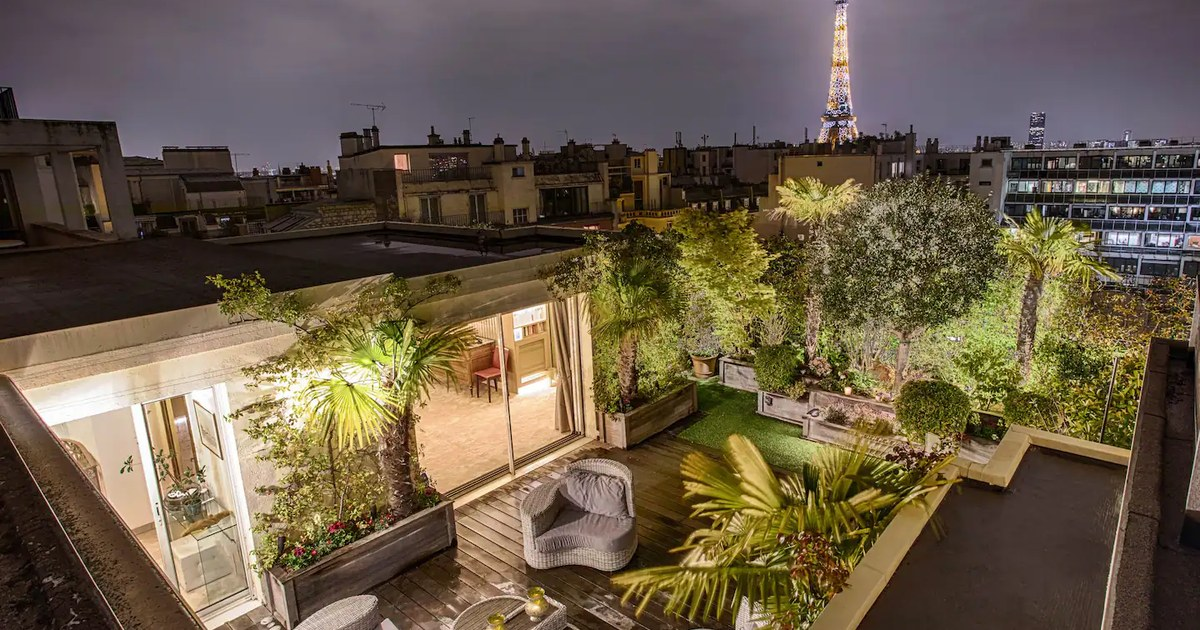
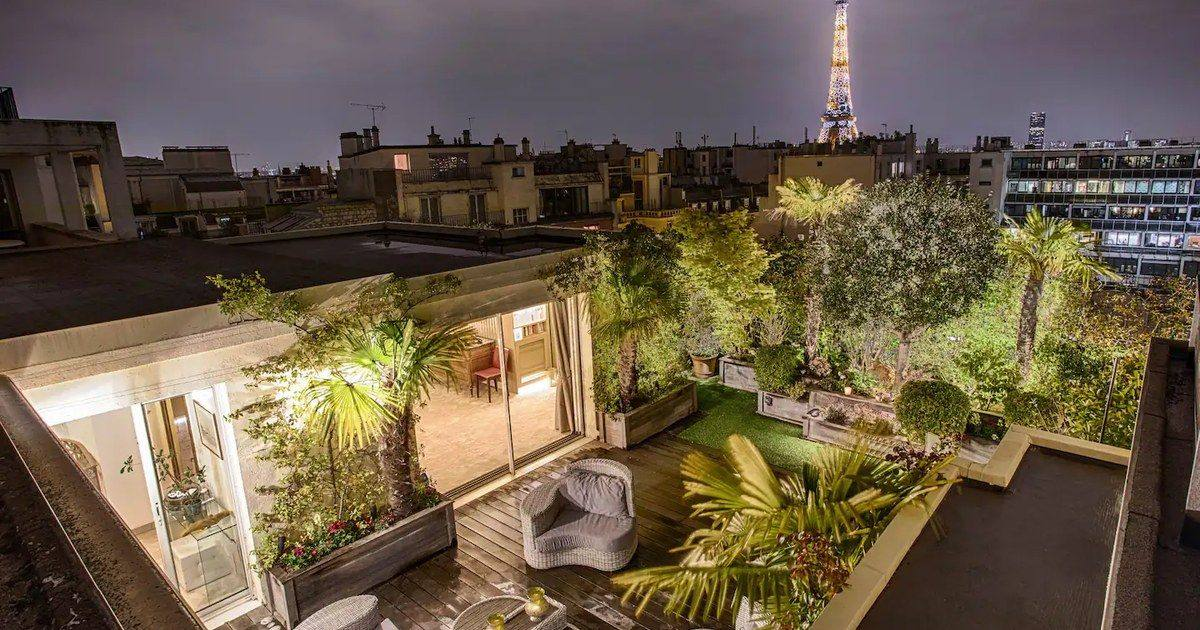
Optimize WhatsApp preview with top-level OpenGraph and Microdata tags

diff --git a/Frontend/dist/index.html b/Frontend/dist/index.html
@@ -1,22 +1,15 @@
 <!doctype html>
-<html lang="en">
+<html lang="en" prefix="og: http://ogp.me/ns#">
 
 <head>
   <meta charset="UTF-8" />
-  <link rel="icon" type="image/svg+xml" href="/favicon.svg" />
   <meta name="viewport" content="width=device-width, initial-scale=1.0" />
-  <!-- Google Search Console Verification -->
-  <meta name="google-site-verification" content="BPItM9TEO_7A6p4X_3Dvhr1ZK7EZpbXfZi5zHfBtnQY" />
-  <meta name="google-site-verification" content="google7777e5ba595168f6" />
-  <meta name="google-site-verification" content="yviekDjygvTvtspOJzpSF1S46UrGW1wj7f7PhbmpGPw" />
-  <meta name="google-site-verification" content="2ho6eK74CUxIFQkF_mPrEjaX3T6XlivUGy6gfuR-Doo" />
-
-  <!-- Bing Webmaster Tools Verification -->
-  <meta name="msvalidate.01" content="C7030712442E8CCEB8BC27BEBAC17BF4" />
+  <link rel="icon" type="image/svg+xml" href="/favicon.svg" />
 
   <!-- Primary SEO Meta Tags -->
   <title>Homexa - Vacation Rentals, Luxury Villas & Unique Stays</title>
   <link rel="canonical" href="https://homexa-bqs.pages.dev/" />
+  <link rel="image_src" href="https://homexa-bqs.pages.dev/assets/og-image.jpg" />
   <meta name="title" content="Homexa - Vacation Rentals, Luxury Villas & Unique Stays" />
   <meta name="description" content="Discover and book handpicked vacation rentals, beachfront villas, cozy mountain cabins, and modern apartments with Homexa. Instant booking and verified hosts." />
   <meta name="keywords" content="vacation rentals, holiday homes, luxury villas, homestay, rent apartments, travel booking, Homexa" />
@@ -24,7 +17,7 @@
   <meta name="googlebot" content="index, follow" />
   <meta name="theme-color" content="#FF385C" />
 
-  <!-- Open Graph / Facebook / WhatsApp -->
+  <!-- Open Graph / Facebook / WhatsApp (Must be near top of head) -->
   <meta property="og:type" content="website" />
   <meta property="og:site_name" content="Homexa" />
   <meta property="og:url" content="https://homexa-bqs.pages.dev/" />
@@ -38,11 +31,27 @@
   <meta property="og:image:alt" content="Homexa - Vacation Rentals, Luxury Villas & Unique Stays" />
   <meta property="og:locale" content="en_US" />
 
+  <!-- Schema.org / WhatsApp Android Fallback -->
+  <meta itemprop="name" content="Homexa - Vacation Rentals, Luxury Villas & Unique Stays" />
+  <meta itemprop="description" content="Discover and book handpicked vacation rentals, beachfront villas, cozy mountain cabins, and modern apartments with Homexa." />
+  <meta itemprop="image" content="https://homexa-bqs.pages.dev/assets/og-image.jpg" />
+
   <!-- Twitter -->
   <meta name="twitter:card" content="summary_large_image" />
   <meta name="twitter:url" content="https://homexa-bqs.pages.dev/" />
   <meta name="twitter:title" content="Homexa - Vacation Rentals, Luxury Villas & Unique Stays" />
   <meta name="twitter:description" content="Discover and book handpicked vacation rentals, beachfront villas, cozy mountain cabins, and modern apartments with Homexa." />
+  <meta name="twitter:image" content="https://homexa-bqs.pages.dev/assets/og-image.jpg" />
+  <meta name="twitter:image:alt" content="Homexa - Vacation Rentals, Luxury Villas & Unique Stays" />
+
+  <!-- Google Search Console Verification -->
+  <meta name="google-site-verification" content="BPItM9TEO_7A6p4X_3Dvhr1ZK7EZpbXfZi5zHfBtnQY" />
+  <meta name="google-site-verification" content="google7777e5ba595168f6" />
+  <meta name="google-site-verification" content="yviekDjygvTvtspOJzpSF1S46UrGW1wj7f7PhbmpGPw" />
+  <meta name="google-site-verification" content="2ho6eK74CUxIFQkF_mPrEjaX3T6XlivUGy6gfuR-Doo" />
+
+  <!-- Bing Webmaster Tools Verification -->
+  <meta name="msvalidate.01" content="C7030712442E8CCEB8BC27BEBAC17BF4" />
   <meta name="twitter:image" content="https://homexa-bqs.pages.dev/assets/og-image.jpg" />
   <meta name="twitter:image:alt" content="Homexa - Vacation Rentals, Luxury Villas & Unique Stays" />
 

diff --git a/Frontend/index.html b/Frontend/index.html
@@ -1,22 +1,15 @@
 <!doctype html>
-<html lang="en">
+<html lang="en" prefix="og: http://ogp.me/ns#">
 
 <head>
   <meta charset="UTF-8" />
-  <link rel="icon" type="image/svg+xml" href="/favicon.svg" />
   <meta name="viewport" content="width=device-width, initial-scale=1.0" />
-  <!-- Google Search Console Verification -->
-  <meta name="google-site-verification" content="BPItM9TEO_7A6p4X_3Dvhr1ZK7EZpbXfZi5zHfBtnQY" />
-  <meta name="google-site-verification" content="google7777e5ba595168f6" />
-  <meta name="google-site-verification" content="yviekDjygvTvtspOJzpSF1S46UrGW1wj7f7PhbmpGPw" />
-  <meta name="google-site-verification" content="2ho6eK74CUxIFQkF_mPrEjaX3T6XlivUGy6gfuR-Doo" />
-
-  <!-- Bing Webmaster Tools Verification -->
-  <meta name="msvalidate.01" content="C7030712442E8CCEB8BC27BEBAC17BF4" />
+  <link rel="icon" type="image/svg+xml" href="/favicon.svg" />
 
   <!-- Primary SEO Meta Tags -->
   <title>Homexa - Vacation Rentals, Luxury Villas & Unique Stays</title>
   <link rel="canonical" href="https://homexa-bqs.pages.dev/" />
+  <link rel="image_src" href="https://homexa-bqs.pages.dev/assets/og-image.jpg" />
   <meta name="title" content="Homexa - Vacation Rentals, Luxury Villas & Unique Stays" />
   <meta name="description" content="Discover and book handpicked vacation rentals, beachfront villas, cozy mountain cabins, and modern apartments with Homexa. Instant booking and verified hosts." />
   <meta name="keywords" content="vacation rentals, holiday homes, luxury villas, homestay, rent apartments, travel booking, Homexa" />
@@ -24,7 +17,7 @@
   <meta name="googlebot" content="index, follow" />
   <meta name="theme-color" content="#FF385C" />
 
-  <!-- Open Graph / Facebook / WhatsApp -->
+  <!-- Open Graph / Facebook / WhatsApp (Must be near top of head) -->
   <meta property="og:type" content="website" />
   <meta property="og:site_name" content="Homexa" />
   <meta property="og:url" content="https://homexa-bqs.pages.dev/" />
@@ -38,11 +31,27 @@
   <meta property="og:image:alt" content="Homexa - Vacation Rentals, Luxury Villas & Unique Stays" />
   <meta property="og:locale" content="en_US" />
 
+  <!-- Schema.org / WhatsApp Android Fallback -->
+  <meta itemprop="name" content="Homexa - Vacation Rentals, Luxury Villas & Unique Stays" />
+  <meta itemprop="description" content="Discover and book handpicked vacation rentals, beachfront villas, cozy mountain cabins, and modern apartments with Homexa." />
+  <meta itemprop="image" content="https://homexa-bqs.pages.dev/assets/og-image.jpg" />
+
   <!-- Twitter -->
   <meta name="twitter:card" content="summary_large_image" />
   <meta name="twitter:url" content="https://homexa-bqs.pages.dev/" />
   <meta name="twitter:title" content="Homexa - Vacation Rentals, Luxury Villas & Unique Stays" />
   <meta name="twitter:description" content="Discover and book handpicked vacation rentals, beachfront villas, cozy mountain cabins, and modern apartments with Homexa." />
+  <meta name="twitter:image" content="https://homexa-bqs.pages.dev/assets/og-image.jpg" />
+  <meta name="twitter:image:alt" content="Homexa - Vacation Rentals, Luxury Villas & Unique Stays" />
+
+  <!-- Google Search Console Verification -->
+  <meta name="google-site-verification" content="BPItM9TEO_7A6p4X_3Dvhr1ZK7EZpbXfZi5zHfBtnQY" />
+  <meta name="google-site-verification" content="google7777e5ba595168f6" />
+  <meta name="google-site-verification" content="yviekDjygvTvtspOJzpSF1S46UrGW1wj7f7PhbmpGPw" />
+  <meta name="google-site-verification" content="2ho6eK74CUxIFQkF_mPrEjaX3T6XlivUGy6gfuR-Doo" />
+
+  <!-- Bing Webmaster Tools Verification -->
+  <meta name="msvalidate.01" content="C7030712442E8CCEB8BC27BEBAC17BF4" />
   <meta name="twitter:image" content="https://homexa-bqs.pages.dev/assets/og-image.jpg" />
   <meta name="twitter:image:alt" content="Homexa - Vacation Rentals, Luxury Villas & Unique Stays" />
 
